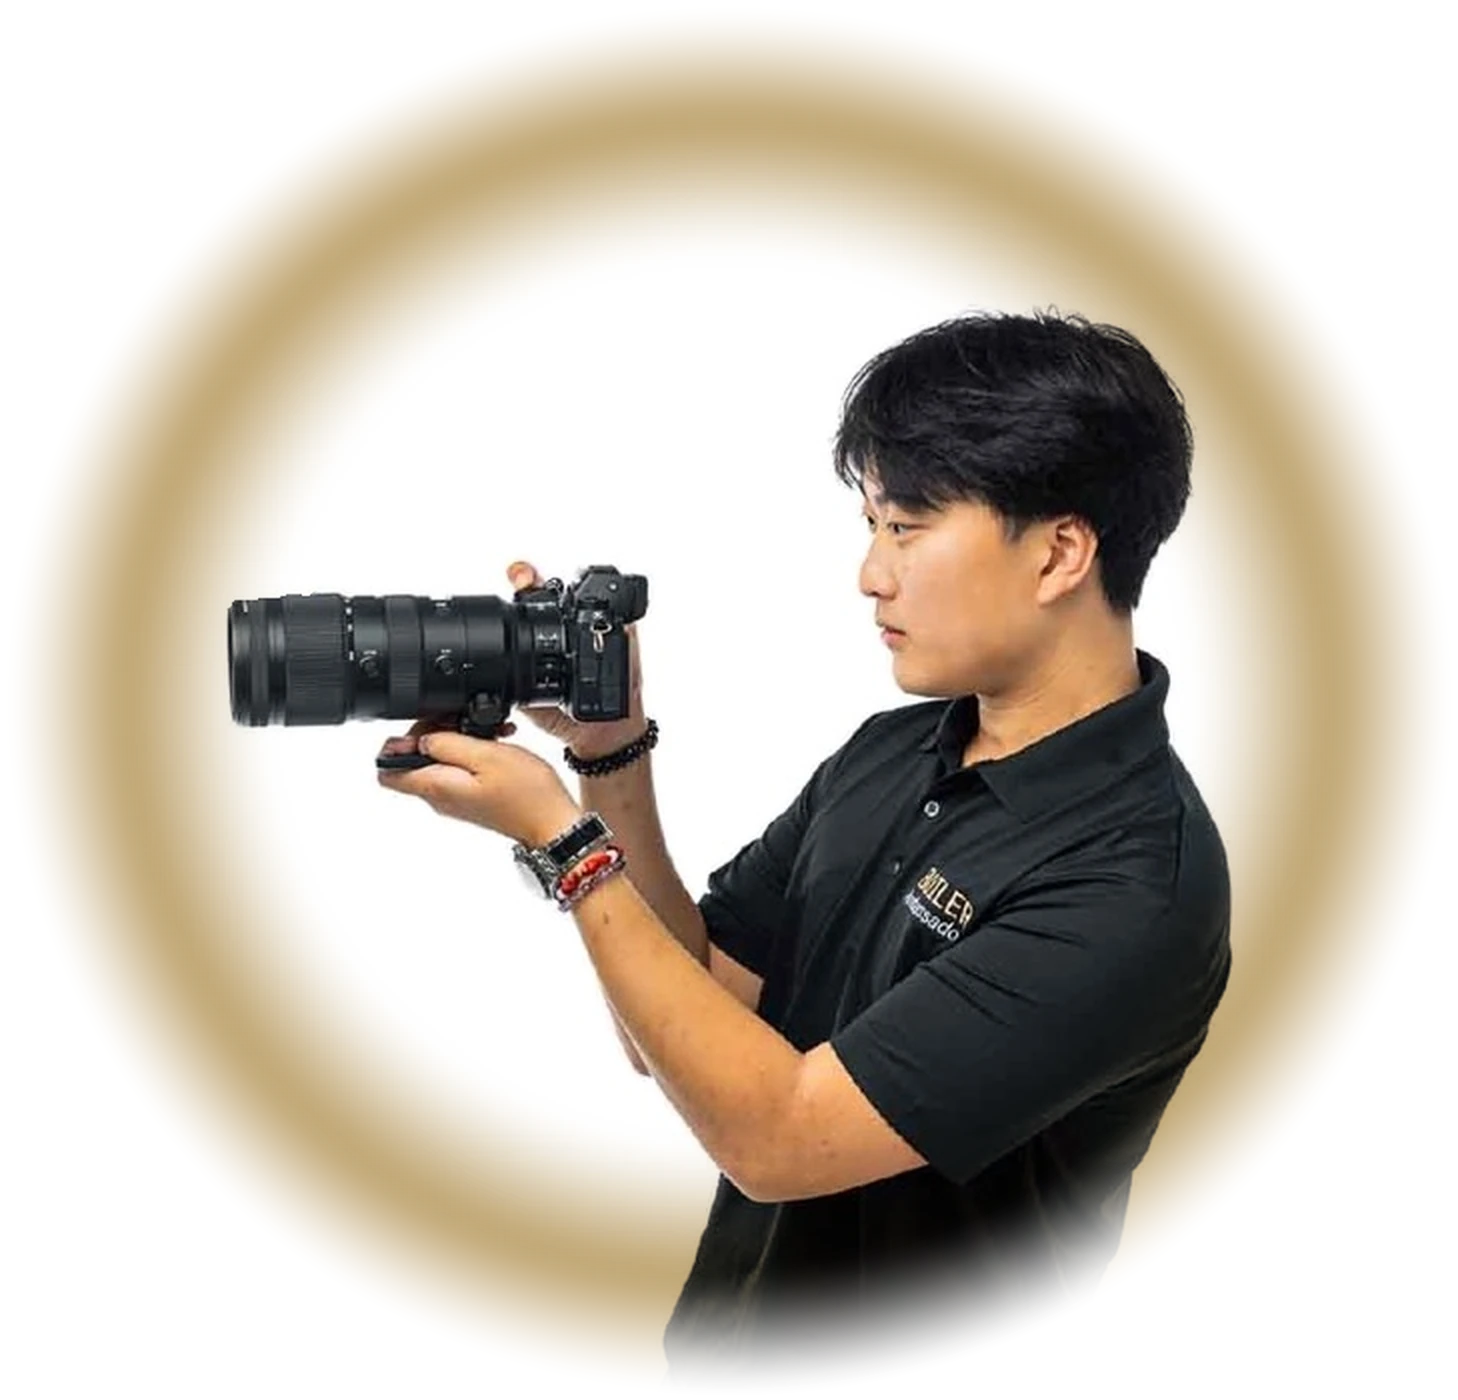
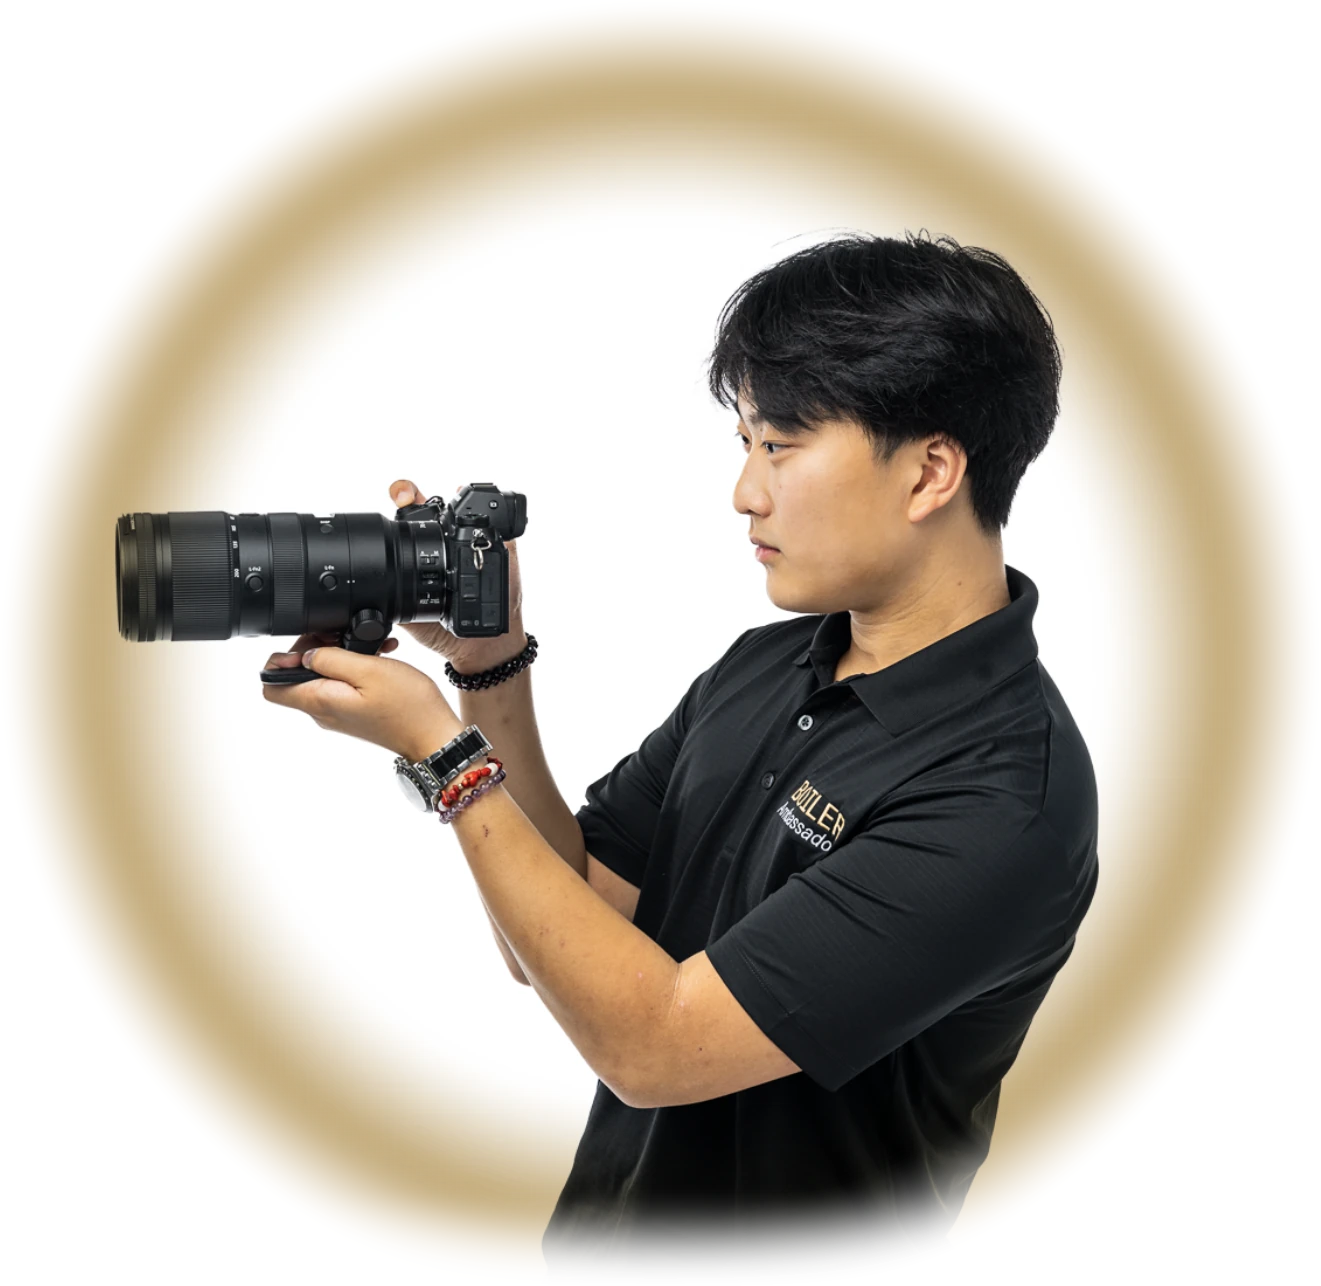
Rebuild Boiler Ambassador fade from sharper source photo
Claude-Session: https://claude.ai/code/session_01SMTZKL7XnNkPxzsVWSQbzG

diff --git a/index.html b/index.html
@@ -68,7 +68,7 @@ html.has-preloader .headline-line>span,html.has-preloader .profile-note{animatio
 </div></div>
 </article>
 <article class="experience-story campus-story" id="brand-studio" aria-labelledby="brand-studio-title">
-<div class="campus-story-visual"><img class="campus-story-photo campus-story-poster" src="./assets/boiler-ambassador-2026.webp" alt="Daniel in his Boiler Ambassadors polo, framing a shot with a camera and telephoto lens" width="1458" height="1400" loading="lazy"><div class="campus-story-signature"><img src="./assets/logos/purdue.jpg" alt="Purdue University" width="1600" height="800" loading="lazy"><span>Boiler Ambassador<br>Purdue Brand Studio</span></div></div>
+<div class="campus-story-visual"><img class="campus-story-photo campus-story-poster" src="./assets/boiler-ambassador-2026.webp" alt="Daniel in his Boiler Ambassadors polo, framing a shot with a camera and telephoto lens" width="1321" height="1286" loading="lazy"><div class="campus-story-signature"><img src="./assets/logos/purdue.jpg" alt="Purdue University" width="1600" height="800" loading="lazy"><span>Boiler Ambassador<br>Purdue Brand Studio</span></div></div>
 <div class="story-copy"><p class="eyebrow">Direction / Casting / Content</p><h3 id="brand-studio-title">Purdue Brand Studio</h3><p class="story-opening">A student’s perspective.<br>A hand in the whole production.</p><p>As a Boiler Ambassador and Social Media Content Creator, I make work for Purdue’s official channels alongside the university’s creative team.</p><p>I directed and cast a peer-to-peer recruitment campaign published across Instagram and Facebook. My other work includes residence tours, student stories, and a split-screen day in the life with Zach Leary.</p><a class="inline-link" href="#purdue-media">Watch the campaign &amp; films <span aria-hidden="true">↓</span></a><p class="story-date">August 2025 — Present</p></div>
 </article>
 <div class="experience-card-grid">
